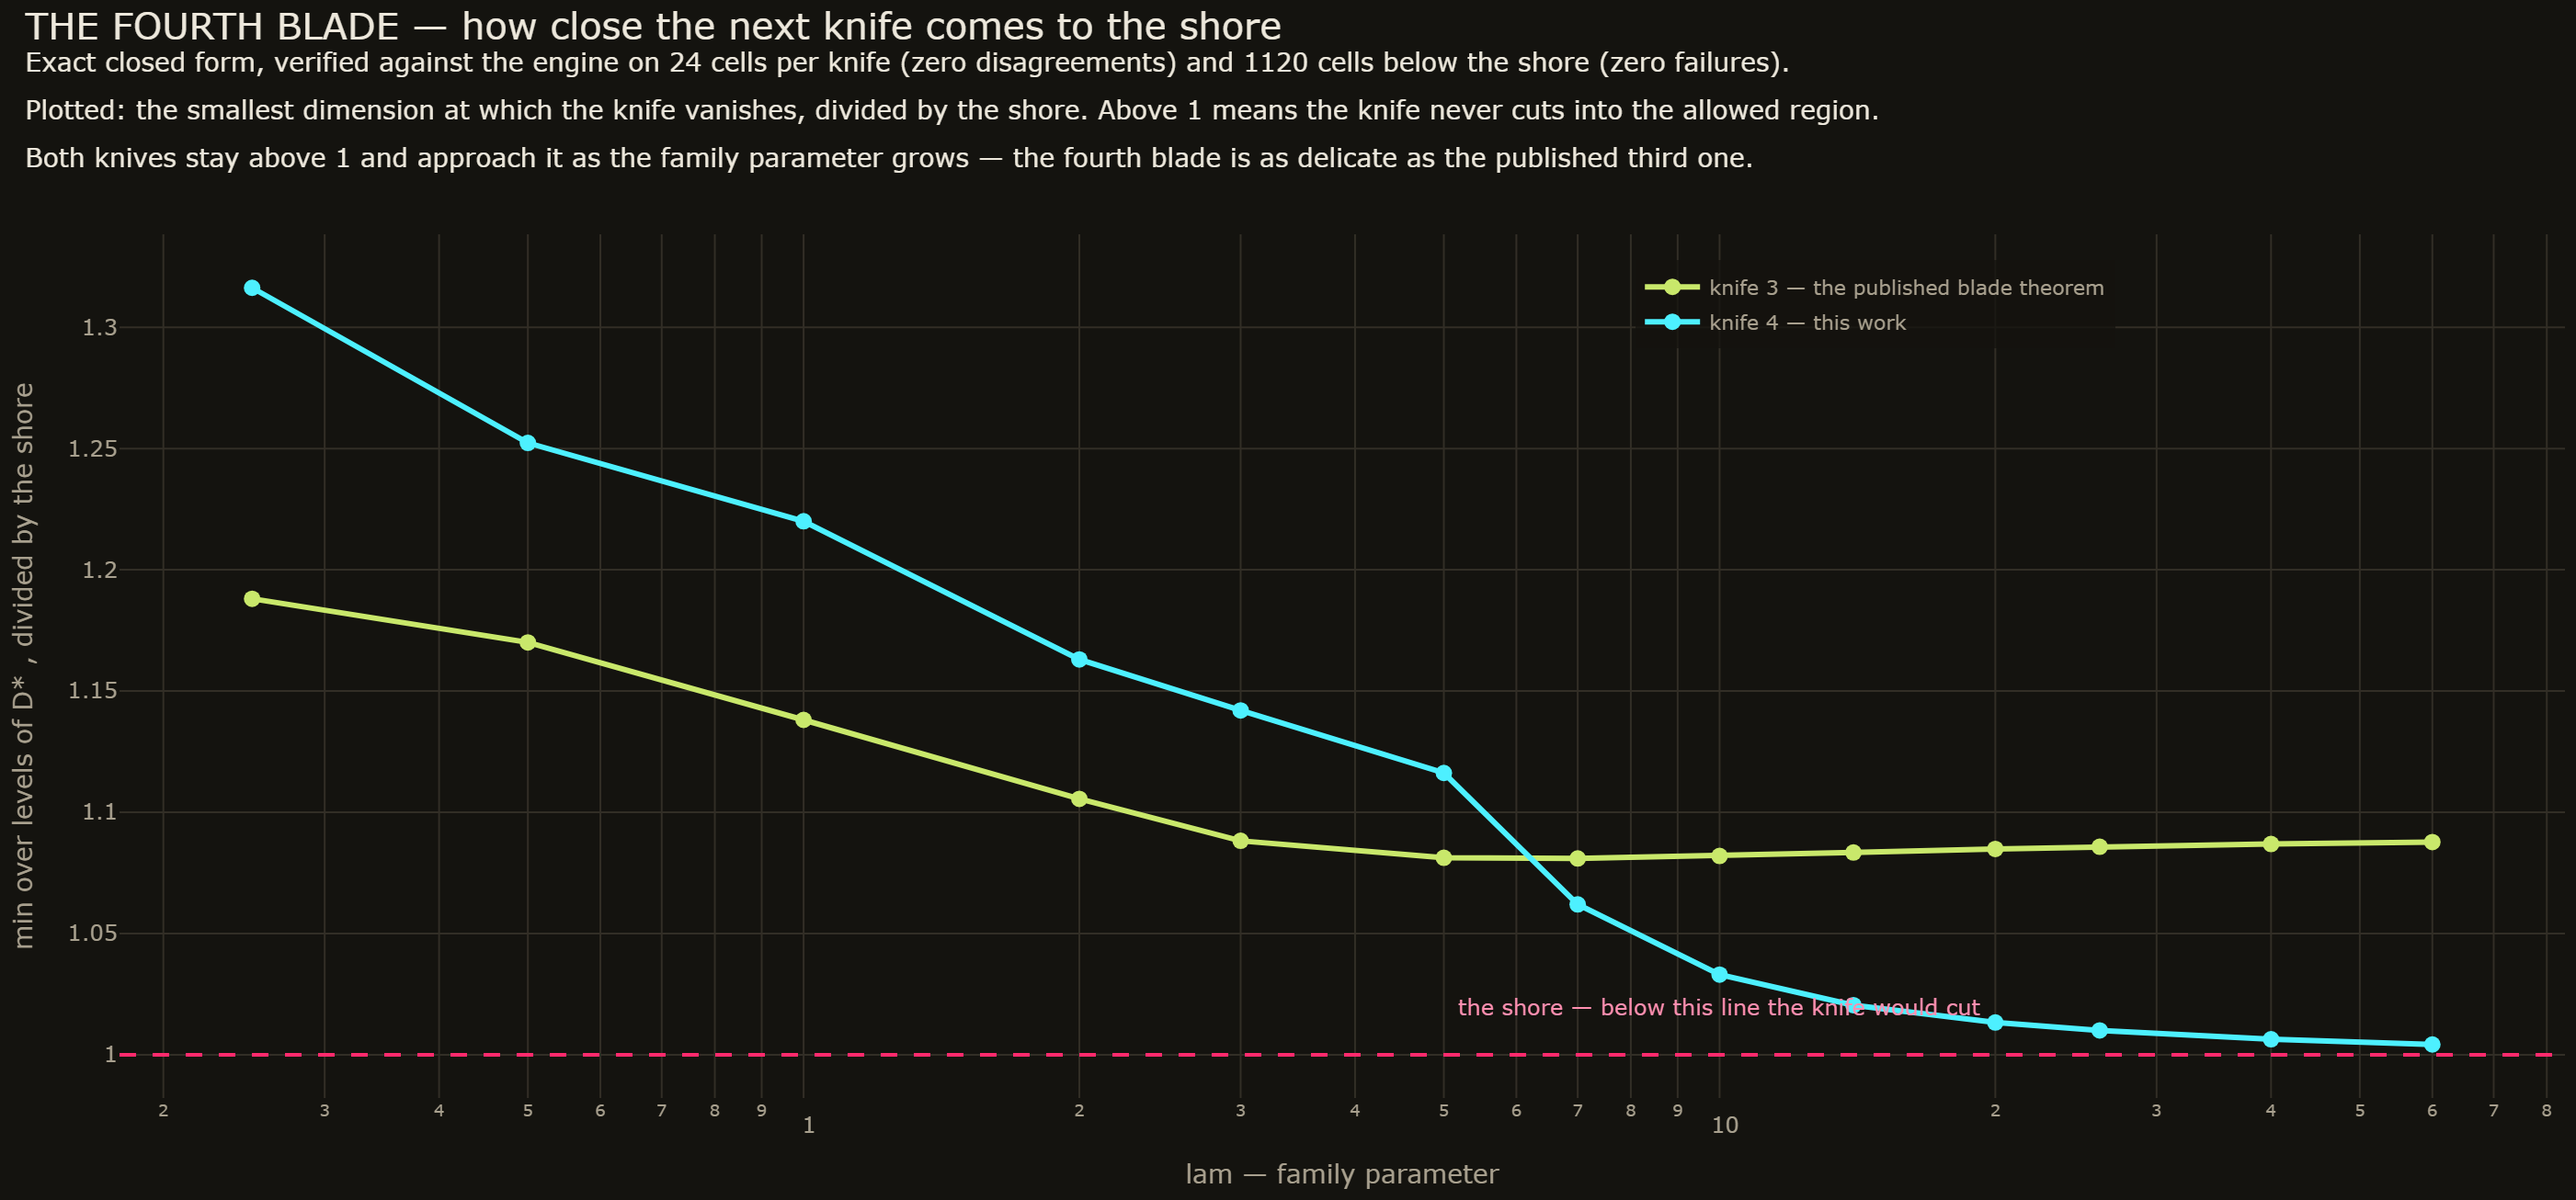
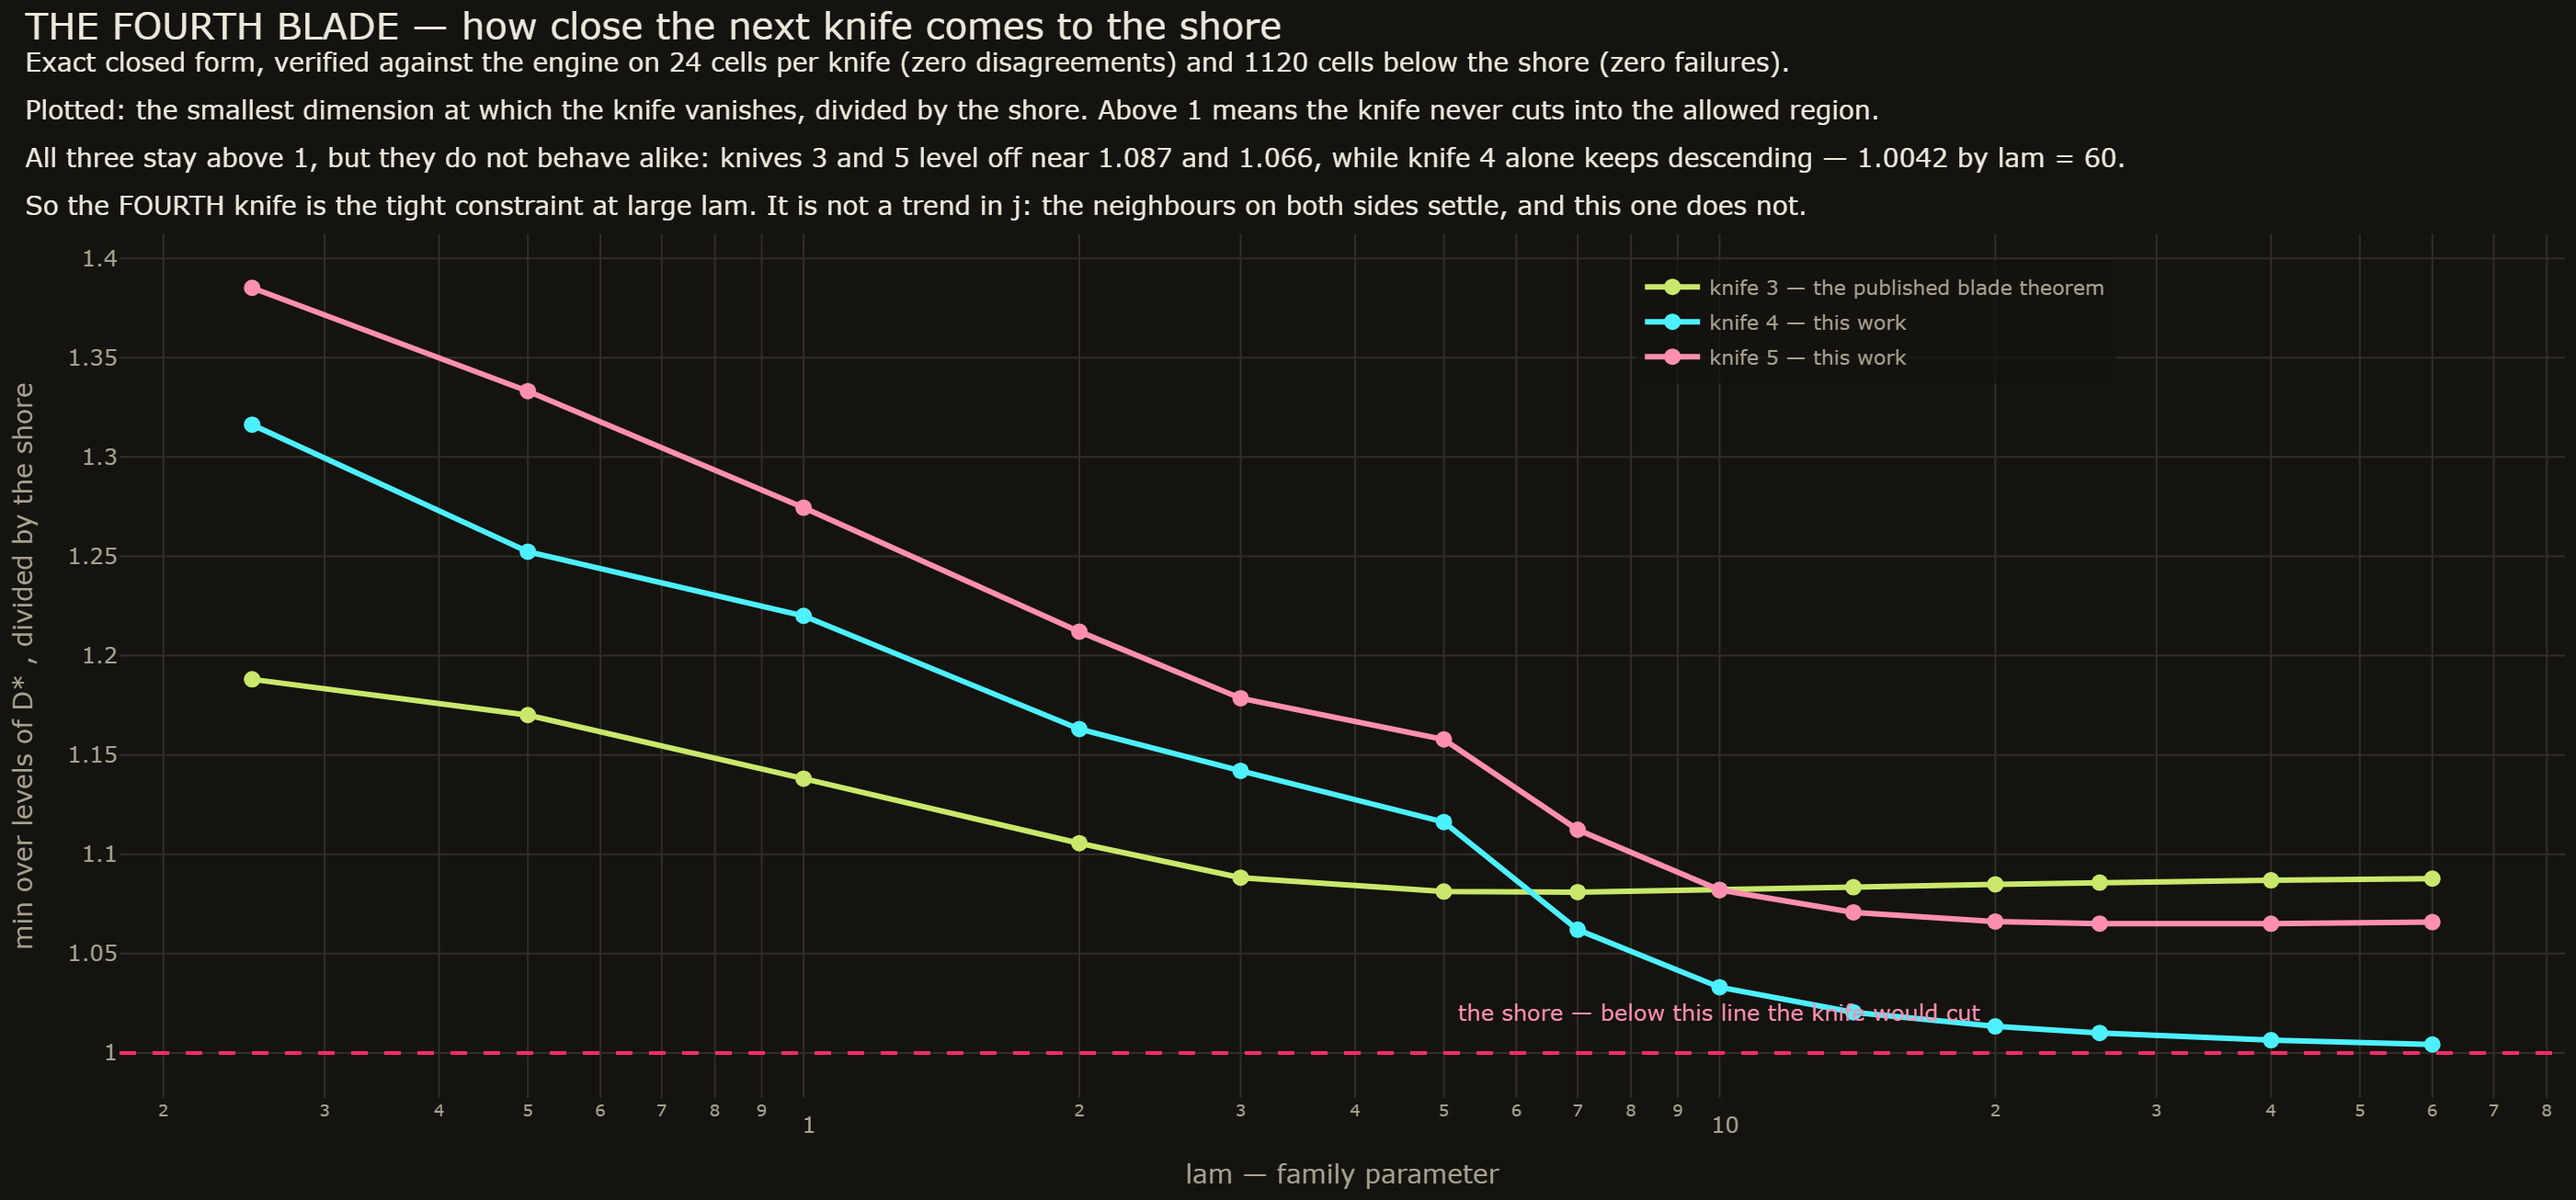
Knife 5 closes the loop: the FOURTH knife is singled out, not a trend in j
E_8 derived and verified on both parities to n = 54, unlocking knife 5. With
j = 2..5 all in verified closed form, the picture changes: knives 3 and 5 level
off at D*/shore ~ 1.087 and ~ 1.066, while knife 4 alone keeps descending to
1.0042 at lam = 60. So the family has one distinguished tight constraint rather
than a monotone trend, and the earlier reading is corrected before it hardened.

diff --git a/live_status.html b/live_status.html
@@ -47,7 +47,7 @@ box-shadow:0 0 8px #0aa3c2}
 .big .bar{height:30px} .big .pct{top:5px;font-size:15px}
 </style></head><body>
 <h1>🔴 ScienceBro — живой статус</h1>
-<div class='t'>Обновлено 04:16:40 18.08.2026 · страница сама обновляется каждые 30 с ·
+<div class='t'>Обновлено 04:26:48 18.08.2026 · страница сама обновляется каждые 30 с ·
 все цифры считаются из реальных файлов результатов, не руками</div>
 
 <div class='card' style='border-color:#f9f871'>
@@ -85,5 +85,5 @@ box-shadow:0 0 8px #0aa3c2}
 
 <h2>Пульс машины <span class='t'>(🟢 живой лог · 🟡 долгий счёт · ⚪ молчит
 или закончил)</span></h2>
-<table><tr><td>⚪ tail_rerun_j6</td><td class='mono'>deep-fixed m&lt;41: OK (212s)</td><td class='t'>2549 мин</td></tr><tr><td>⚪ belowdiag_j6</td><td class='mono'></td><td class='t'>1875 мин</td></tr><tr><td>⚪ farbelow_j6</td><td class='mono'></td><td class='t'>1932 мин</td></tr><tr><td>⚪ z3_retry_j4</td><td class='mono'>RETRY: 24/35 confirmed, 0 alarms, 11 still unknown</td><td class='t'>2117 мин</td></tr><tr><td>⚪ keystone_hunt</td><td class='mono'>NO VIOLATIONS in 109980 checks</td><td class='t'>2494 мин</td></tr></table>
+<table><tr><td>⚪ tail_rerun_j6</td><td class='mono'>deep-fixed m&lt;41: OK (212s)</td><td class='t'>2559 мин</td></tr><tr><td>⚪ belowdiag_j6</td><td class='mono'></td><td class='t'>1886 мин</td></tr><tr><td>⚪ farbelow_j6</td><td class='mono'></td><td class='t'>1943 мин</td></tr><tr><td>⚪ z3_retry_j4</td><td class='mono'>RETRY: 24/35 confirmed, 0 alarms, 11 still unknown</td><td class='t'>2127 мин</td></tr><tr><td>⚪ keystone_hunt</td><td class='mono'>NO VIOLATIONS in 109980 checks</td><td class='t'>2504 мин</td></tr></table>
 </body></html>

diff --git a/article/visuals/the_fourth_blade.py b/article/visuals/the_fourth_blade.py
@@ -14,10 +14,12 @@ when
 
         min over n of D*(n, lam)   >   T_hat(lam).
 
-PLOTTED: that minimum against the shore, as a ratio, for both j = 3 (the
-published case, as a control) and j = 4 (new). The ratio stays above 1
-everywhere computed, and falls toward 1 as lam grows -- the same asymptotic
-tangency the published blade theorem has.
+PLOTTED: that minimum against the shore, as a ratio, for j = 3 (the published
+case, used as a control), j = 4 and j = 5. All stay above 1 everywhere computed,
+but they do not behave alike. Knives 3 and 5 level off (about 1.087 and 1.066);
+knife 4 alone keeps descending -- 1.062 at lam = 7, 1.010 at 26, 1.0042 at 60.
+So the fourth knife is the tight constraint at large lam, and this is NOT a trend
+in j: its neighbours on both sides settle and it does not.
 
 The scan range in n must GROW with lam: the minimising level sits near 1.7 lam,
 and an earlier version of this measurement capped n at 120 and produced a
@@ -42,7 +44,7 @@ from knife_closed_form import D as Dsym  # noqa: E402
 from knife_closed_form import knife_polynomial, lam as lamsym, n as nsym  # noqa: E402
 from PIL import Image, ImageChops  # noqa: E402
 
-CACHE = Path("/tmp/fourth_blade.json")
+CACHE = Path("/tmp/fourth_blade345.json")
 LAMS = [F(1, 4), F(1, 2), F(1), F(2), F(3), F(5), F(7), F(10), F(14), F(20), F(26), F(40), F(60)]
 
 
@@ -65,7 +67,7 @@ def gather():
     if CACHE.exists():
         return json.loads(CACHE.read_text(encoding="utf-8"))
     out = {}
-    for j in (3, 4):
+    for j in (3, 4, 5):
         P = knife_polynomial(j)
         series = []
         for lv in LAMS:
@@ -96,6 +98,7 @@ fig = go.Figure()
 for j, col, name in (
     (3, "#c9e86b", "knife 3 — the published blade theorem"),
     (4, "#4df0ff", "knife 4 — this work"),
+    (5, "#ff8fb0", "knife 5 — this work"),
 ):
     s = d[str(j)]
     fig.add_trace(
@@ -130,9 +133,11 @@ fig.update_layout(
         "per knife (zero disagreements) and 1120 cells below the shore (zero "
         "failures).<br>Plotted: the smallest dimension at which the knife "
         "vanishes, divided by the shore. Above 1 means the knife never cuts "
-        "into the allowed region.<br>Both knives stay above 1 and approach it "
-        "as the family parameter grows — the fourth blade is as delicate as "
-        "the published third one.</sup>",
+        "into the allowed region.<br>All three stay above 1, but they do not "
+        "behave alike: knives 3 and 5 level off near 1.087 and 1.066, while "
+        "knife 4 alone keeps descending — 1.0042 by lam = 60.<br>So the FOURTH "
+        "knife is the tight constraint at large lam. It is not a trend in j: "
+        "the neighbours on both sides settle, and this one does not.</sup>",
         font=dict(color="#ede8dc", size=20),
         x=0.02,
         y=0.95,

diff --git a/projects/qg-bootstrap/lab/knife_closed_form.py b/projects/qg-bootstrap/lab/knife_closed_form.py
@@ -67,6 +67,24 @@ E_POLY = {
         * (35 * n**4 - 154 * n**3 + 172 * n**2 + 292 * n + 120)
         / 5670
     ),
+    4: (
+        n
+        * (n - 1)
+        * (n - 2)
+        * (n - 3)
+        * (n - 4)
+        * (
+            175 * n**7
+            - 2240 * n**6
+            + 10216 * n**5
+            - 16520 * n**4
+            - 11600 * n**3
+            + 41440 * n**2
+            + 68304 * n
+            + 30240
+        )
+        / 340200
+    ),
 }
 
 
@@ -134,7 +152,7 @@ def main() -> int:
     bad_E = check_E_polynomials()
     print(f"  central factorial polynomials: {len(bad_E)} mismatches", flush=True)
     rows = {}
-    for j in (2, 3, 4):
+    for j in (2, 3, 4, 5):
         checked, bad = verify_against_engine(j)
         P = knife_polynomial(j)
         rows[str(j)] = {

diff --git a/tests/test_fast_engine.py b/tests/test_fast_engine.py
@@ -65,8 +65,7 @@ def test_new_lab_modules_use_the_fast_engine():
     assert not offenders, (
         "New computational modules must use the flint engine (see CLAUDE.md, "
         "ЗАКОН БЫСТРОГО ДВИЖКА). Port them, or add '# ENGINE-OK: <reason>' if "
-        "the slow path is genuinely the right choice here:\n  "
-        + "\n  ".join(offenders)
+        "the slow path is genuinely the right choice here:\n  " + "\n  ".join(offenders)
     )
 
 

diff --git a/article/THEOREM_STATE.md b/article/THEOREM_STATE.md
@@ -376,3 +376,31 @@ STATUS: this is an explicit, verified closed form and a measured statement, NOT 
 proof. What would make it a theorem is showing D*(n, lam) > T_hat(lam) for all
 n and lam -- now a finite algebraic question about one explicit polynomial,
 which is exactly the shape the published blade theorem took for knife 3.
+
+## 2026-08-18 04:26 -- knife 4 is SINGLED OUT, and it is not a trend in j
+
+E_8(n) derived and verified on both parities to n = 54, which unlocks knife 5.
+All of j = 2, 3, 4, 5 now have verified closed forms (24 cells each against the
+exact flint engine, zero disagreements).
+
+min over levels of D*, divided by the shore:
+
+    lam         1/4    1/2      1      2      3      5      7     10     14     20     26     40     60
+    knife 3    1.187  1.170  1.138  1.105  1.088  1.081  1.080  1.081  1.083  1.084  1.086  1.087  1.087
+    knife 4    1.316  1.252  1.220  1.163  1.142  1.117  1.062  1.032  1.0205 1.013  1.010  1.0064 1.0042
+    knife 5    1.385  1.333  1.275  1.212  1.179  1.158  1.112  1.072  1.0665 1.0655 1.0654 1.0653 1.0658
+
+So the earlier reading -- "each further knife is tighter" -- is WRONG, and I am
+glad the fifth was computed before that was written down as a trend. Knives 3 and
+5 level off (near 1.087 and 1.066). Knife 4 alone keeps descending toward 1.
+
+That is a sharper statement than a trend: the family has ONE distinguished tight
+constraint, the fourth trajectory ell = 2n-8, and its neighbours on both sides
+settle away from the shore. Whether knife 4 stays above the shore as lam grows is
+the open question, and it is now a finite algebraic question about one explicit
+polynomial P4 (degree 9 in n, 3 in D, 6 in lam).
+
+The minimising level grows with lam roughly like 1.7 lam for knife 4 (n = 102 at
+lam = 60) and like 3 lam for knife 5 (n = 179 at lam = 60); the scan range is
+tied to lam and reported per point, after an earlier fixed cap at n = 120
+produced a spurious upturn.

diff --git a/article/DATA_LOG.md b/article/DATA_LOG.md
@@ -3242,3 +3242,31 @@ Reproducible: lab/knife_closed_form.py (0 disagreements against the exact engine
 on 24 cells per knife, 1120 cells below the shore with 0 failures) and
 article/visuals/the_fourth_blade.py (certified flint roots, n-range reported per
 point so the cap can be audited).
+
+## 2026-08-18 04:26 -- knife 4 is SINGLED OUT, and it is not a trend in j
+
+E_8(n) derived and verified on both parities to n = 54, which unlocks knife 5.
+All of j = 2, 3, 4, 5 now have verified closed forms (24 cells each against the
+exact flint engine, zero disagreements).
+
+min over levels of D*, divided by the shore:
+
+    lam         1/4    1/2      1      2      3      5      7     10     14     20     26     40     60
+    knife 3    1.187  1.170  1.138  1.105  1.088  1.081  1.080  1.081  1.083  1.084  1.086  1.087  1.087
+    knife 4    1.316  1.252  1.220  1.163  1.142  1.117  1.062  1.032  1.0205 1.013  1.010  1.0064 1.0042
+    knife 5    1.385  1.333  1.275  1.212  1.179  1.158  1.112  1.072  1.0665 1.0655 1.0654 1.0653 1.0658
+
+So the earlier reading -- "each further knife is tighter" -- is WRONG, and I am
+glad the fifth was computed before that was written down as a trend. Knives 3 and
+5 level off (near 1.087 and 1.066). Knife 4 alone keeps descending toward 1.
+
+That is a sharper statement than a trend: the family has ONE distinguished tight
+constraint, the fourth trajectory ell = 2n-8, and its neighbours on both sides
+settle away from the shore. Whether knife 4 stays above the shore as lam grows is
+the open question, and it is now a finite algebraic question about one explicit
+polynomial P4 (degree 9 in n, 3 in D, 6 in lam).
+
+The minimising level grows with lam roughly like 1.7 lam for knife 4 (n = 102 at
+lam = 60) and like 3 lam for knife 5 (n = 179 at lam = 60); the scan range is
+tied to lam and reported per point, after an earlier fixed cap at n = 120
+produced a spurious upturn.
